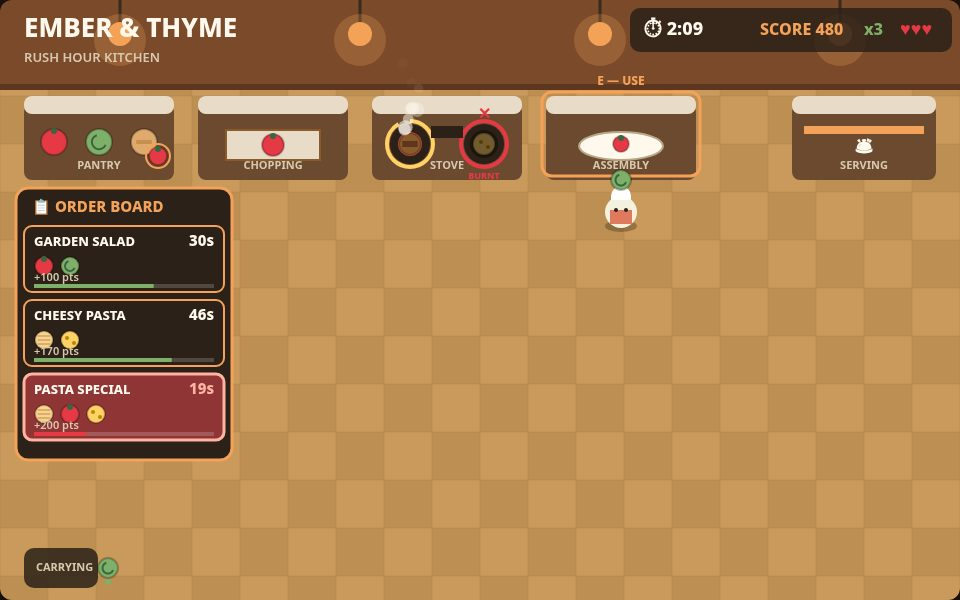
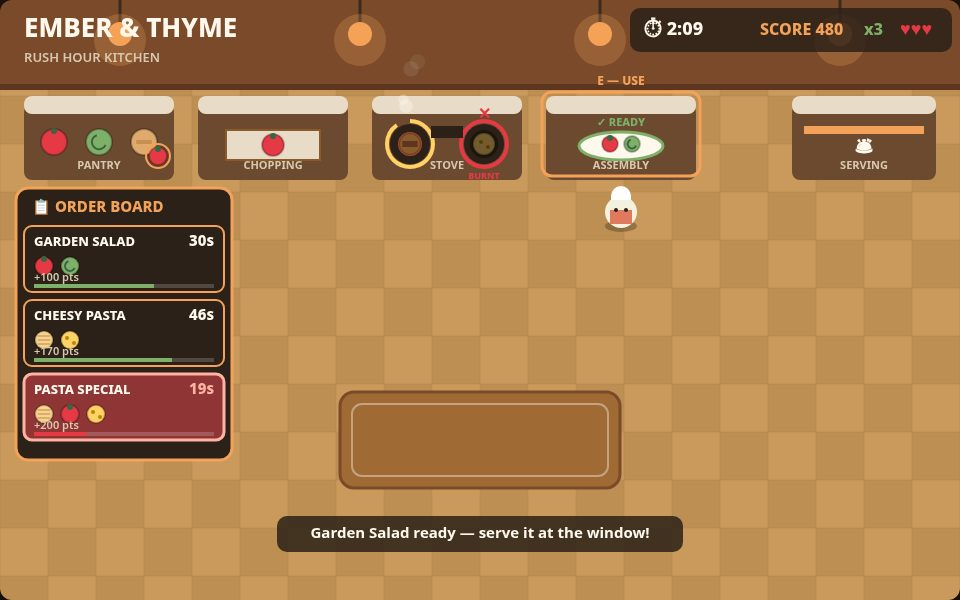
Phase 3: polish + real screenshots

diff --git a/game/src/render.js b/game/src/render.js
@@ -3,7 +3,7 @@
 // renderer is pure drawing: it takes the game state and paints it.
 
 import { CANVAS, INGREDIENTS, PALETTE, PANTRY_ORDER, STATIONS } from './config.js';
-import { prepSecondsFor } from './recipes.js';
+import { matchingOrder, prepSecondsFor } from './recipes.js';
 import { drawEffects } from './effects.js';
 
 function roundRect(ctx, x, y, w, h, r) {
@@ -53,6 +53,18 @@ function drawFloor(ctx) {
     ctx.stroke();
   }
   ctx.globalAlpha = 1;
+  // A woven rug in the middle of the floor so the open kitchen does
+  // not read as one big empty checkerboard.
+  ctx.fillStyle = '#a06a35';
+  roundRect(ctx, 340, 392, 280, 96, 14);
+  ctx.fill();
+  ctx.strokeStyle = '#7a4a2b';
+  ctx.lineWidth = 3;
+  ctx.stroke();
+  ctx.strokeStyle = 'rgba(232, 220, 200, 0.5)';
+  ctx.lineWidth = 2;
+  roundRect(ctx, 352, 404, 256, 72, 10);
+  ctx.stroke();
 }
 
 function drawWall(ctx) {
@@ -241,13 +253,17 @@ function drawStation(ctx, station, highlighted, state) {
     ctx.fillStyle = '#2b2118';
     ctx.fillRect(x + w / 2 - 16, y + 30, 32, 12);
   } else if (station.id === 'assembly') {
+    // A plate that matches an open order is READY: green ring + label
+    // so the serveable state reads at a glance.
+    const ready = matchingOrder(state.plate ?? [], state.orders);
     ctx.fillStyle = '#fff8ec';
     ctx.beginPath();
     ctx.ellipse(x + w / 2, y + 50, 42, 14, 0, 0, Math.PI * 2);
     ctx.fill();
-    ctx.strokeStyle = '#b8a888';
-    ctx.lineWidth = 2;
+    ctx.strokeStyle = ready ? PALETTE.good : '#b8a888';
+    ctx.lineWidth = ready ? 3 : 2;
     ctx.stroke();
+    if (ready) drawText(ctx, '✓ READY', x + w / 2, y + 27, 11, PALETTE.good, 'center', '800');
     // The real plate stack: each plated item sits on the plate.
     const plate = state.plate ?? [];
     plate.forEach((item, i) => {

diff --git a/game/src/shots.js b/game/src/shots.js
@@ -62,17 +62,21 @@ export function stateForShot(shot) {
     state.bestCombo = 3;
     state.served = 4;
     state.orders = sampleOrders();
-    // Chef stands at the assembly counter with a half-built dish: one
-    // tomato already plated, a chopped lettuce in hand.
+    // Chef stands at the assembly counter with a FINISHED dish: the
+    // Garden Salad (tomato + lettuce) is fully plated and matches the
+    // open order, so the plate reads as ready to serve.
     state.world.player.x = 621;
     state.world.player.y = 210;
-    state.plate = [{ key: 'tomato', prep: 'ready' }];
-    state.carried = [{ key: 'lettuce', prep: 'ready' }];
+    state.plate = [
+      { key: 'tomato', prep: 'ready' },
+      { key: 'lettuce', prep: 'ready' },
+    ];
+    state.carried = [];
     // Burner 0 mid-cook (ring half full), burner 1 burnt — shows both
     // stove states in the screenshot.
     state.burners[0] = { item: { key: 'patty', prep: 'raw' }, progress: 2.5, cooked: false, burnt: false };
     state.burners[1] = { item: { key: 'cheese', prep: 'burnt' }, progress: 6.0, cooked: true, burnt: true };
-    state.toast = { text: 'Plating Garden Salad… 2 of 2 ready!', life: 2 };
+    state.toast = { text: 'Garden Salad ready — serve it at the window!', life: 30 };
     return state;
   }
   if (shot === 'end') {
